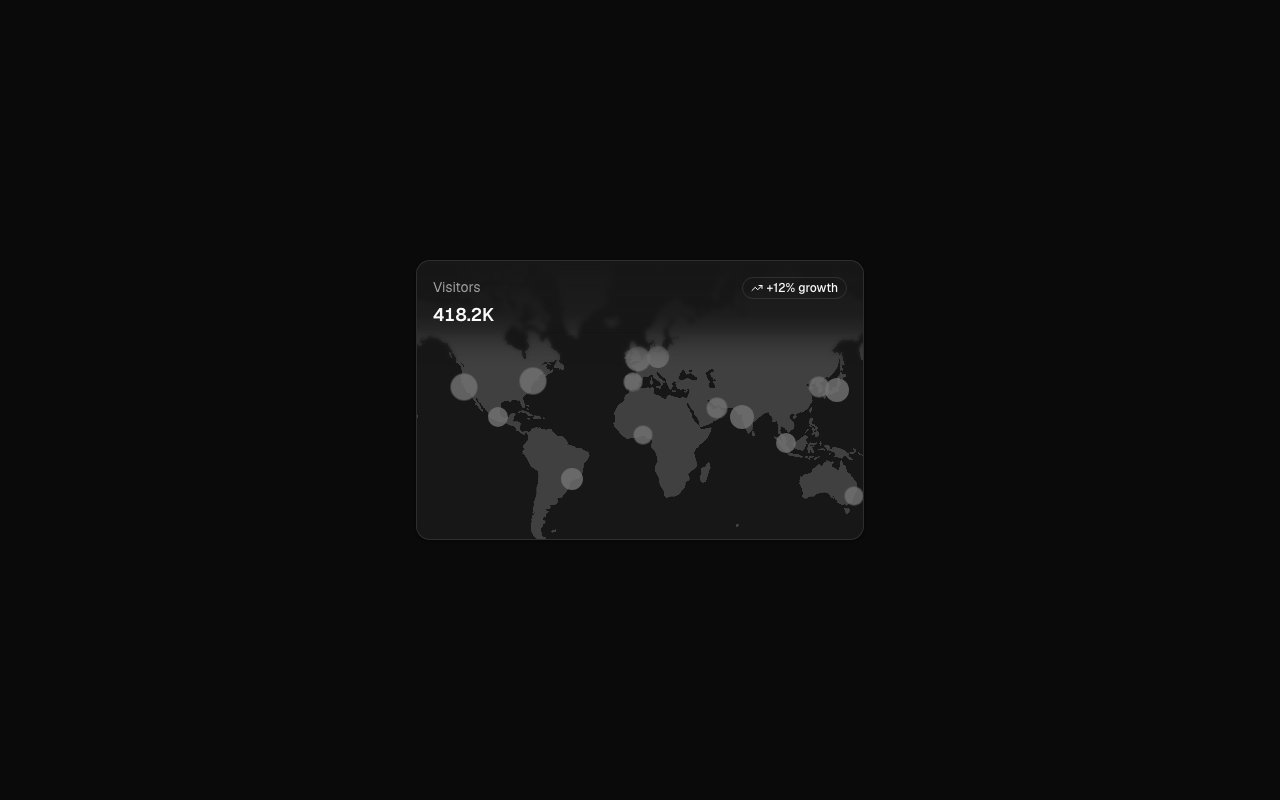
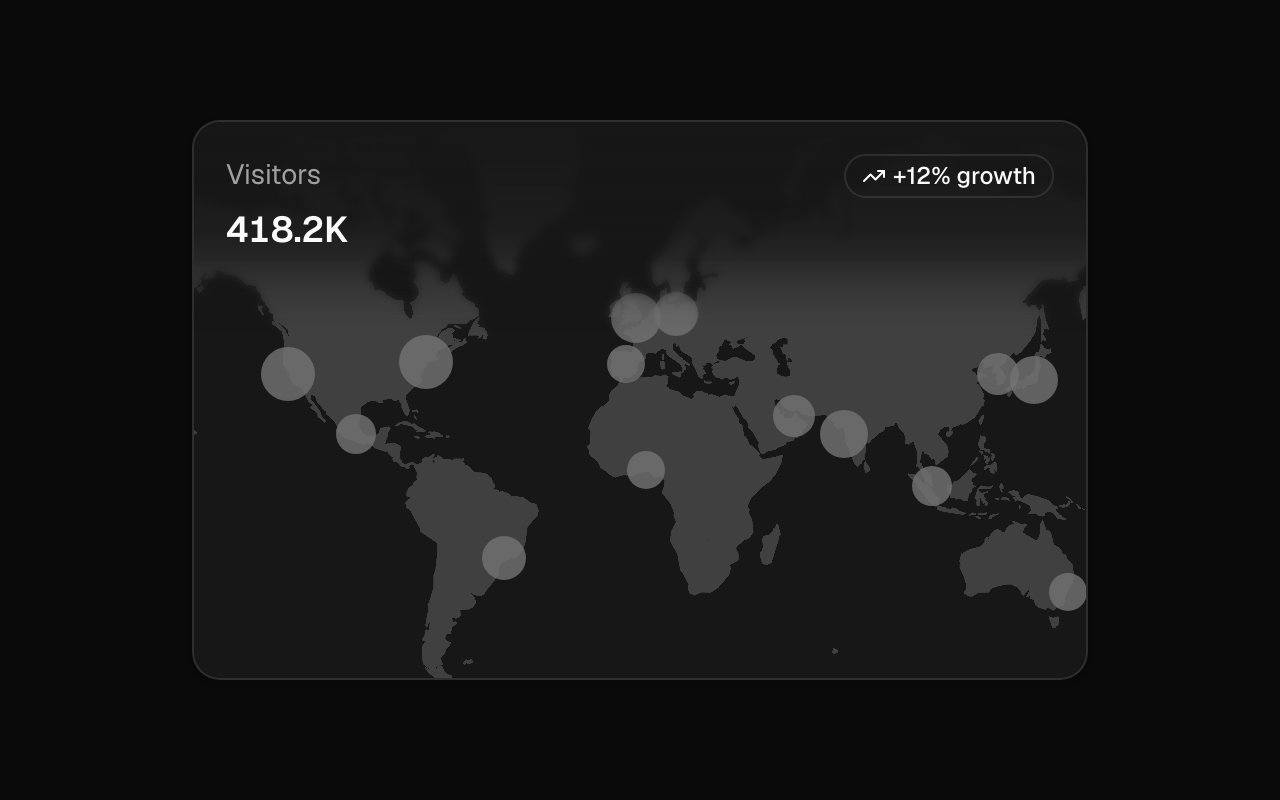
chore(blocks): frame centered block thumbnails automatically
Measure centered blocks when capturing so they fill the thumbnail, and
recapture analytics card and uptime monitor.

Changed region(s): [[0.125, 0.1875, 0.875, 0.875], [0.6562, 0.1875, 0.8125, 0.25], [0.375, 0.3125, 0.4062, 0.3438]]

diff --git a/scripts/capture-block-thumbnails.ts b/scripts/capture-block-thumbnails.ts
@@ -16,6 +16,9 @@ const schemes = ["light", "dark"] as const;
 // Smaller than the default, so block UI matches the docs maps in scale.
 const blockViewport = { width: 960, height: 640 };
 
+// Space kept around a block that floats in the middle of the page.
+const blockMargin = 60;
+
 // Home page wall tiles. `click` presses something first (and hides it if it is
 // a button), `zoom` and `pan` (in pixels) reframe the map, and `trim` cuts
 // pixels off the top and bottom.
@@ -121,9 +124,20 @@ async function main() {
 
     for (const name of blocks) {
       await open(page, `/view/${name}`);
+      const frame = await measureBlockFrame(page);
+      const framedContext = frame
+        ? await browser.newContext({
+            viewport: frame,
+            deviceScaleFactor: viewport.width / frame.width,
+            colorScheme: scheme,
+          })
+        : undefined;
+      const blockPage = framedContext ? await framedContext.newPage() : page;
+      if (framedContext) await open(blockPage, `/view/${name}`);
       const file = path.join(blocksDir, `${name}-${scheme}.jpg`);
-      await page.screenshot({ path: file, type: "jpeg", quality: 85 });
+      await blockPage.screenshot({ path: file, type: "jpeg", quality: 85 });
       logSaved(file);
+      await framedContext?.close();
     }
 
     for (const maps of showcasePages.values()) {
@@ -169,6 +183,36 @@ async function open(page: Page, route: string) {
     .waitForLoadState("networkidle", { timeout: 10_000 })
     .catch(() => {});
   await page.waitForTimeout(1_500);
+}
+
+// Returns a tighter 16:10 viewport for a block centered in the page, so it fills
+// the thumbnail once scaled back up. Page-filling blocks return undefined.
+async function measureBlockFrame(page: Page) {
+  const box = await page.evaluate(() => {
+    let block = document.querySelector(".maplibregl-map");
+    while (block?.parentElement) {
+      const parent = block.parentElement.getBoundingClientRect();
+      if (parent.width >= innerWidth && parent.height >= innerHeight) break;
+      block = block.parentElement;
+    }
+    if (!block) return null;
+
+    const { left, top, width, height } = block.getBoundingClientRect();
+    const centered =
+      Math.abs(left + width / 2 - innerWidth / 2) <= 1 &&
+      Math.abs(top + height / 2 - innerHeight / 2) <= 1;
+    return centered ? { width, height } : null;
+  });
+  if (!box) return undefined;
+
+  const minWidth = Math.max(
+    box.width + blockMargin * 2,
+    ((box.height + blockMargin * 2) * 8) / 5,
+  );
+  const width = Math.ceil(minWidth / 8) * 8;
+  return width < viewport.width
+    ? { width, height: (width * 5) / 8 }
+    : undefined;
 }
 
 // The Map component keeps its MapLibre instance in React state, so this walks
